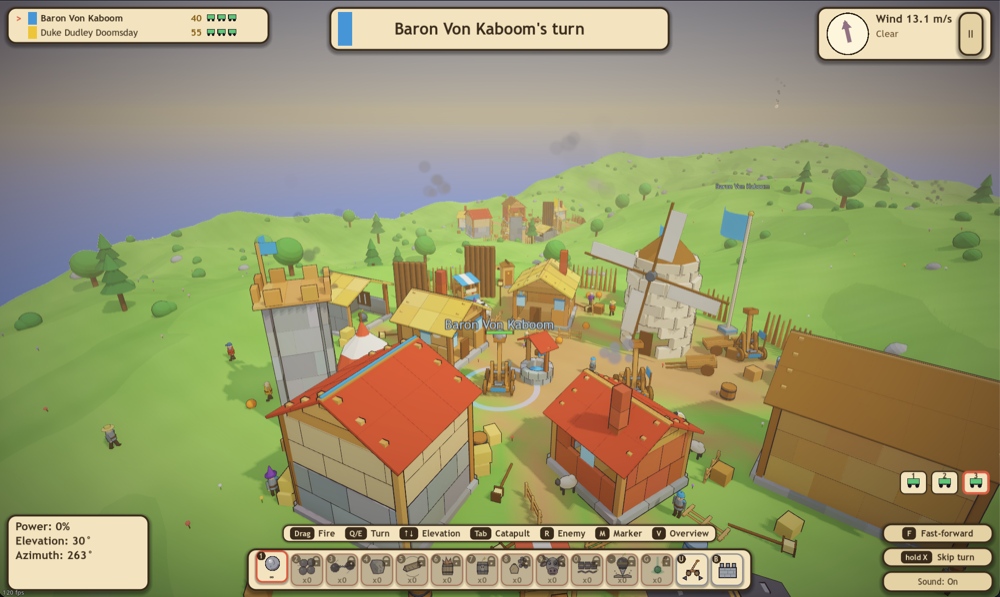
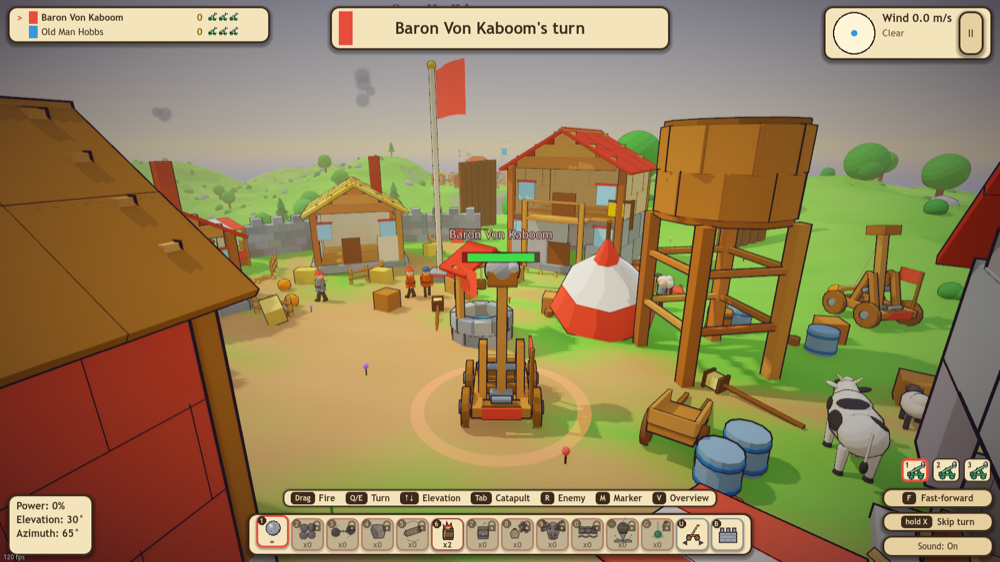
README: physics section with GIF and new screenshot; translate loading title

diff --git a/CHANGELOG.md b/CHANGELOG.md
@@ -4,6 +4,8 @@ Rough release notes, newest first. Versions before 1.10.0 are reconstructed from
 **Rule: this file and `SPEC.md` are updated with every change.** The patch number rises with every build (`export.sh`).
 
 ## Unreleased
+- **Loading screen title is translated** ("Generating the world" stayed German after switching the language): the title is set again every time a match starts. Other texts checked: no other leftover German / untranslated UI strings (the language key sets of `en.gd` / `de.gd` are tested to be identical).
+- **README shows the physics**: new section "Physics is the game" with an animated GIF (`docs/physics.gif`, 750 KB: a Drill Bomb collapses a village, English UI) and a new screenshot (`docs/game.png`, English UI, village and catapults). Both are recorded by the autotest scenarios `--autotest=gif` and `--autotest=readmeshot` (frames as PNG, assembled to a GIF outside the game).
 - **HUD polish**: the catapult icons (player list and the selector at the bottom right) are now a proper little catapult (A-frame, arm with counterweight and cup, ball, wheels; green = alive, red = destroyed); the selector sits directly above Fast-forward (it was a separate widget with a gap); the aim box (power / elevation / azimuth) is smaller, as big as its text and its font shrinks with the window (16 down to 11 px).
 - **README: how to start the downloaded binaries** (Windows, macOS with the Gatekeeper warning and the manual steps, Linux incl. `chmod +x` and the renderer); README / SPEC now state the real renderers (Forward+ on desktop, Compatibility on Linux, Mobile on phones; they wrongly said "Mobile").
 - **Chaos "own goal" keg only for real buildings**: wrecking your own palisade posts, walls, flag poles or props no longer pays the powder keg; a whole building (house, barn, tower ...) is needed.

diff --git a/README.md b/README.md
@@ -7,6 +7,18 @@ shout jokes. Lose all 5 catapults and you are out - the last player standing win
 
 <p align="center"><img src="docs/game.png" alt="Medieval Madness" width="720"></p>
 
+## Physics is the game
+
+<p align="center"><img src="docs/physics.gif" alt="A Drill Bomb makes a whole village cave in" width="520"></p>
+<p align="center"><sub>One Drill Bomb: it drills to sea level, explodes underground and the village collapses into the pit - all of it simulated, nothing scripted.</sub></p>
+
+Every wall, beam, shingle and barrel is a real rigid body (Jolt Physics), held together by links that break:
+
+* **Buildings fall the way buildings fall**: shoot away the lower storey and what sits on it comes down; overhangs without support drop.
+* **The ground is physics too**: craters, landslides and caving soil reshape the terrain, and everything standing on it goes along.
+* **Fire spreads** from part to part (wind helps), **water** puts it out and makes things buoyant, **powder kegs** chain-react.
+* **Settlers and animals turn into ragdolls** when something hits them; boulders and logs roll downhill through the village.
+
 Built with **Godot 4.4+ (tested with 4.7.2)**, GDScript only, Jolt Physics. Renderer: Forward+ on Windows and macOS, Compatibility (OpenGL) on Linux, Mobile on phones.
 No image, model, font or audio files: all graphics are procedural and all sounds are synthesized at startup.
 
